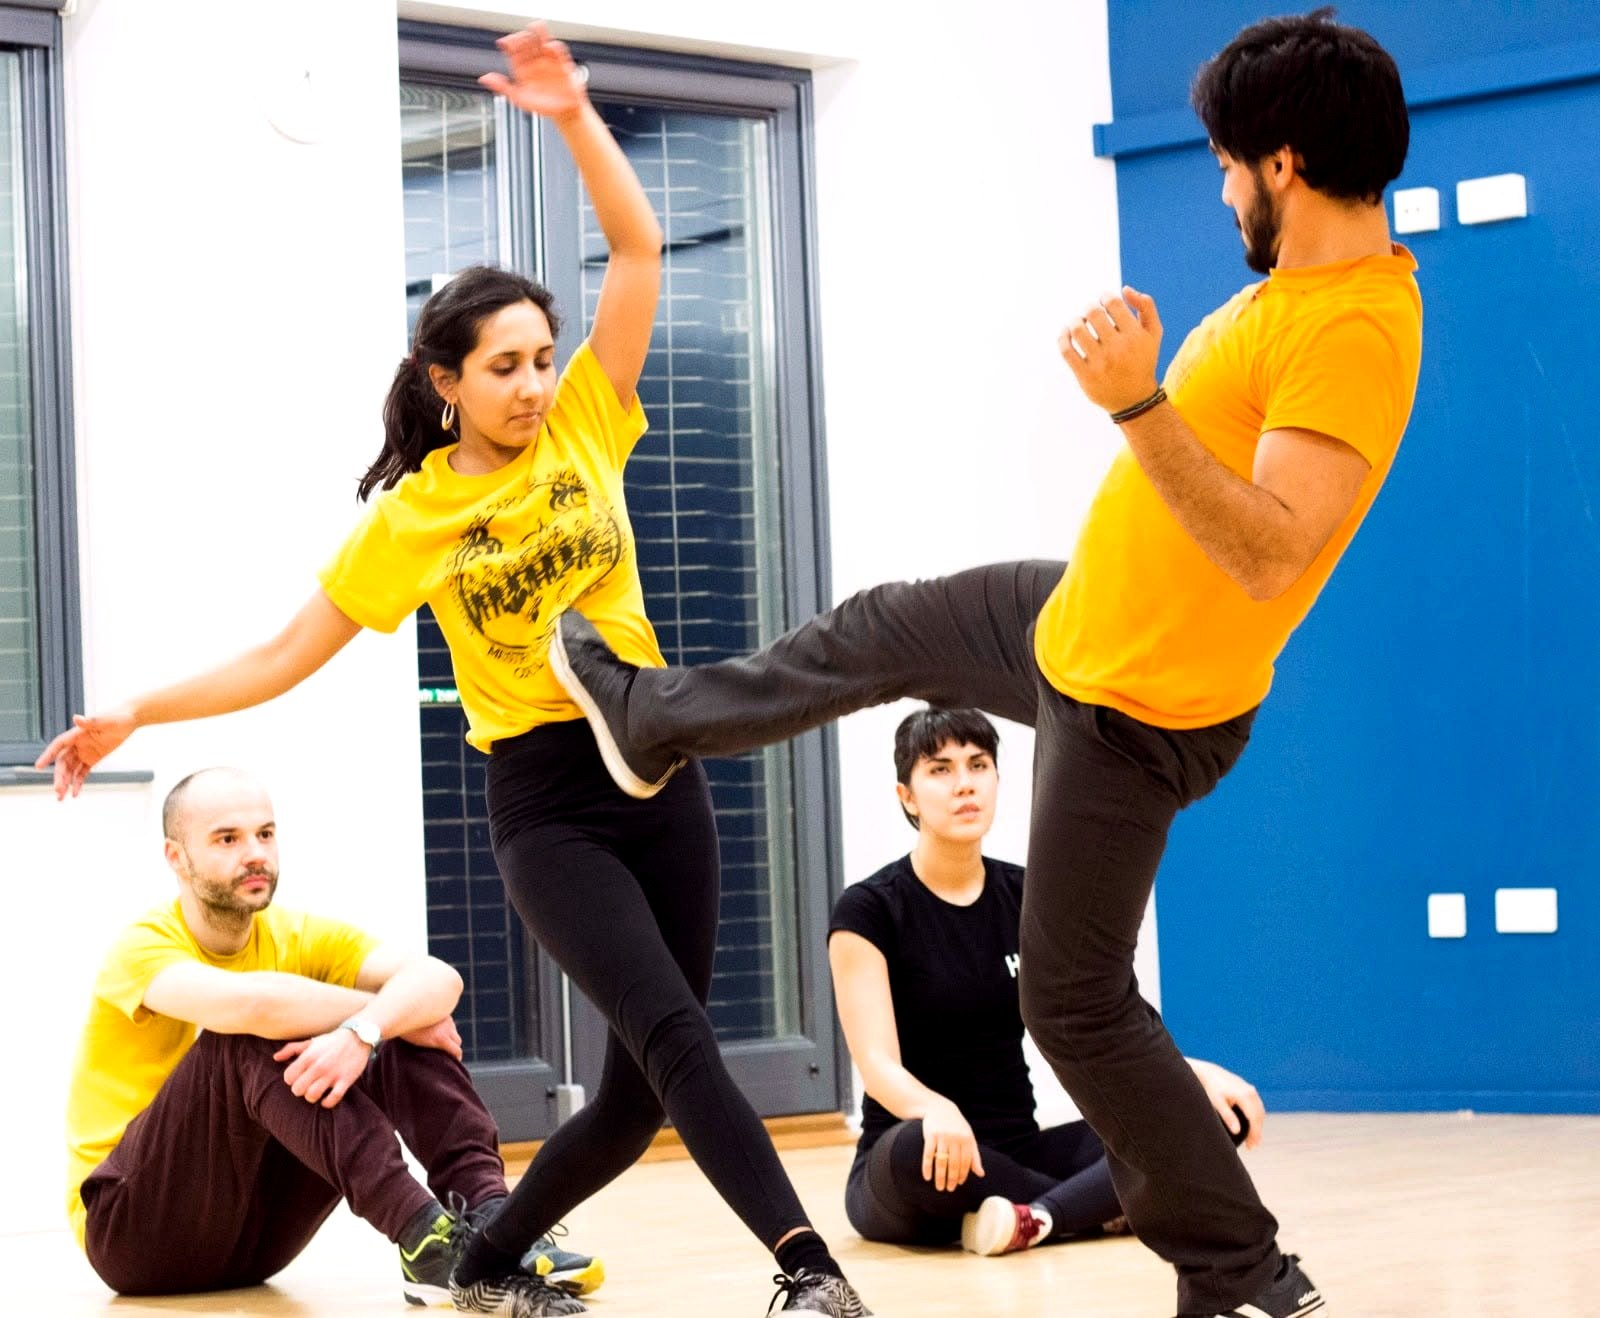
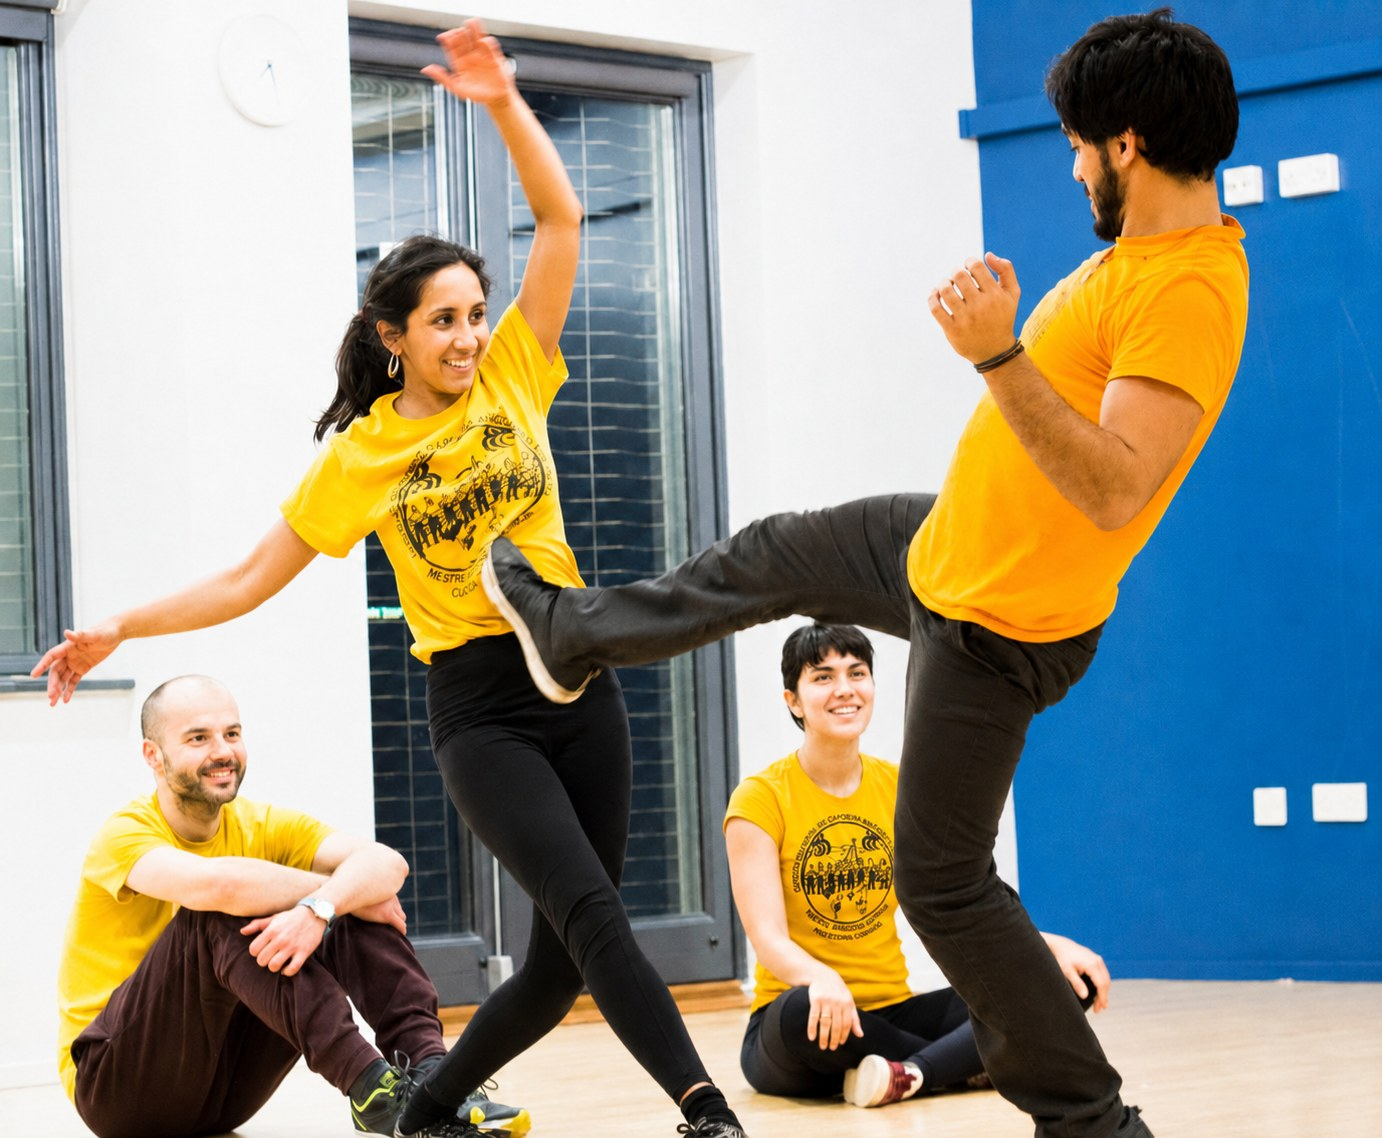
Polish hero gallery and contact flow

diff --git a/index.html b/index.html
@@ -41,14 +41,16 @@
             Oxford Capoeira Society welcomes adults and children, from complete
             beginners to experienced students.
           </p>
-          <ul class="hero-highlights" aria-label="Class highlights">
-            <li>First class friendly</li>
-            <li>No experience needed</li>
-            <li>Movement, music, and community</li>
-          </ul>
-          <div class="hero-actions" aria-label="Main actions">
-            <a class="button" href="#classes">View class times</a>
-            <a class="button button-secondary" href="#contact">Contact us now</a>
+          <div class="hero-tail">
+            <ul class="hero-highlights" aria-label="Class highlights">
+              <li>First class friendly</li>
+              <li>No experience needed</li>
+              <li>Movement, music, and community</li>
+            </ul>
+            <div class="hero-actions" aria-label="Main actions">
+              <a class="button" href="#classes">View class times</a>
+              <a class="button button-secondary" href="#contact">Contact us now</a>
+            </div>
           </div>
         </div>
         <figure class="hero-photo">
@@ -410,7 +412,7 @@
               >
               <figcaption>Movement practice</figcaption>
             </figure>
-            <figure class="gallery-photo">
+            <figure class="gallery-photo gallery-photo-large">
               <img
                 src="images/color-graded/photo-31.jpg"
                 alt="Outdoor roda with berimbaus and students playing in Oxford"
@@ -458,6 +460,20 @@
                 alt="Oxford Capoeira Society group photo after a workshop"
               >
               <figcaption>Community</figcaption>
+            </figure>
+            <figure class="gallery-photo">
+              <img
+                src="images/color-graded/photo-28.jpg"
+                alt="Capoeira Angola roda with live music and movement"
+              >
+              <figcaption>Workshop roda</figcaption>
+            </figure>
+            <figure class="gallery-photo">
+              <img
+                src="images/color-graded/photo-29.jpg"
+                alt="Capoeira Angola musicians with berimbaus and percussion"
+              >
+              <figcaption>Berimbau music</figcaption>
             </figure>
           </div>
         </div>
@@ -523,27 +539,42 @@
               regular class as a beginner.
             </p>
             <p>
-              Use whichever option is easiest for you:
+              For the quickest reply, send a WhatsApp message with the class
+              you would like to try and whether you are coming as an adult,
+              parent, or school contact.
             </p>
-            <div class="contact-options" aria-label="Contact options">
-              <a
-                class="contact-option"
-                href="https://www.instagram.com/oxfordcapoeirasociety/"
-                target="_blank"
-                rel="noopener noreferrer"
-              >
-                <span>Instagram</span>
-                <strong>@oxfordcapoeirasociety</strong>
-              </a>
-              <a class="contact-option" href="mailto:oxcapoeirasoc@gmail.com">
-                <span>Email</span>
-                <strong>oxcapoeirasoc@gmail.com</strong>
-              </a>
-              <a class="contact-option" href="tel:07411776771">
-                <span>WhatsApp or text</span>
-                <strong>Professor Lobinho</strong>
-              </a>
-            </div>
+            <ul class="contact-prompts" aria-label="Helpful contact details">
+              <li>Tell us which class you want to attend.</li>
+              <li>Ask any questions about level, clothing, or payment.</li>
+              <li>Bank transfer details can be shared after you get in touch.</li>
+            </ul>
+          </div>
+          <div class="contact-options" aria-label="Contact options">
+            <a
+              class="contact-option contact-option-primary"
+              href="https://wa.me/447411776771"
+              target="_blank"
+              rel="noopener noreferrer"
+            >
+              <span>WhatsApp or text</span>
+              <strong>Message Professor Lobinho</strong>
+              <small>Best for arranging your first class.</small>
+            </a>
+            <a
+              class="contact-option"
+              href="https://www.instagram.com/oxfordcapoeirasociety/"
+              target="_blank"
+              rel="noopener noreferrer"
+            >
+              <span>Instagram</span>
+              <strong>@oxfordcapoeirasociety</strong>
+              <small>Follow class updates and community photos.</small>
+            </a>
+            <a class="contact-option" href="mailto:oxcapoeirasoc@gmail.com">
+              <span>Email</span>
+              <strong>oxcapoeirasoc@gmail.com</strong>
+              <small>Good for school workshops and longer questions.</small>
+            </a>
           </div>
         </div>
       </section>

diff --git a/styles.css b/styles.css
@@ -102,6 +102,10 @@ a {
   min-width: 0;
 }
 
+.hero-tail {
+  min-width: 0;
+}
+
 .welcome-badge {
   display: inline-flex;
   align-items: center;
@@ -248,7 +252,7 @@ h3 {
 
 .hero-photo img {
   width: 100%;
-  aspect-ratio: 4 / 5;
+  aspect-ratio: 1 / 1;
   object-fit: cover;
   object-position: center;
 }
@@ -665,6 +669,7 @@ h3 {
 
 .gallery-grid {
   display: grid;
+  grid-auto-flow: dense;
   grid-template-columns: repeat(4, minmax(0, 1fr));
   gap: 1px;
   overflow: hidden;
@@ -723,23 +728,26 @@ h3 {
 
 .contact-options {
   display: grid;
-  grid-template-columns: repeat(3, minmax(0, 1fr));
-  gap: 1px;
-  overflow: hidden;
-  margin-top: 1.25rem;
-  background: #c9ddd6;
-  border: 1px solid #c9ddd6;
-  border-radius: 8px;
+  grid-template-columns: 1fr;
+  gap: 0.75rem;
+  margin-top: 0;
 }
 
 .contact-option {
   display: grid;
-  gap: 0.3rem;
+  align-content: start;
+  gap: 0.4rem;
   min-height: 7rem;
   padding: 1.1rem;
   background: var(--surface);
   color: var(--ink);
+  border: 1px solid #c9ddd6;
+  border-radius: 8px;
   text-decoration: none;
+  transition:
+    background 160ms ease,
+    border-color 160ms ease,
+    transform 160ms ease;
 }
 
 .contact-option span {
@@ -755,9 +763,60 @@ h3 {
   overflow-wrap: anywhere;
 }
 
+.contact-option small {
+  color: var(--muted);
+  font-size: 0.9rem;
+  line-height: 1.45;
+}
+
+.contact-option-primary {
+  background: var(--green);
+  border-color: var(--green);
+  color: #ffffff;
+  box-shadow: var(--soft-shadow);
+}
+
+.contact-option-primary span,
+.contact-option-primary strong,
+.contact-option-primary small {
+  color: #ffffff;
+}
+
 .contact-option:hover,
 .contact-option:focus-visible {
   background: #edf5f2;
+  border-color: var(--green);
+  transform: translateY(-2px);
+}
+
+.contact-option-primary:hover,
+.contact-option-primary:focus-visible {
+  background: #0d5945;
+}
+
+.contact-prompts {
+  display: grid;
+  gap: 0.55rem;
+  margin: 1.2rem 0 0;
+  padding: 0;
+  color: var(--muted);
+  list-style: none;
+}
+
+.contact-prompts li {
+  position: relative;
+  padding-left: 1.4rem;
+}
+
+.contact-prompts li::before {
+  position: absolute;
+  top: 0.65em;
+  left: 0;
+  width: 0.45rem;
+  height: 0.45rem;
+  background: var(--gold);
+  border-radius: 50%;
+  content: "";
 }
 
 .site-footer {
@@ -780,6 +839,31 @@ h3 {
   .hero {
     grid-template-columns: 1fr;
     min-height: auto;
+  }
+
+  .hero-copy {
+    display: contents;
+  }
+
+  .hero-copy .welcome-badge {
+    justify-self: start;
+    order: 1;
+  }
+
+  .hero-copy h1 {
+    order: 2;
+  }
+
+  .hero-copy > p {
+    order: 3;
+  }
+
+  .hero-photo {
+    order: 4;
+  }
+
+  .hero-tail {
+    order: 5;
   }
 
   .hero-mark {
@@ -838,11 +922,34 @@ h3 {
   }
 
   .hero {
-    padding-top: 2rem;
+    gap: 1rem;
+    padding-top: 1.5rem;
   }
 
-  .hero-copy p:not(.eyebrow) {
+  .hero-copy p:not(.eyebrow, .welcome-badge) {
     max-width: 32ch;
+    font-size: 1rem;
+  }
+
+  .welcome-badge {
+    min-height: 2rem;
+    margin-bottom: 0.75rem;
+    padding: 0.35rem 0.65rem;
+  }
+
+  .hero-highlights {
+    gap: 0.45rem;
+    margin-top: 1rem;
+  }
+
+  .hero-highlights li {
+    min-height: 2.1rem;
+    padding: 0.35rem 0.6rem;
+    font-size: 0.85rem;
+  }
+
+  .hero-photo img {
+    aspect-ratio: 4 / 3;
   }
 
   html {
@@ -850,7 +957,8 @@ h3 {
   }
 
   h1 {
-    font-size: clamp(2.5rem, 14vw, 3.6rem);
+    margin-bottom: 1rem;
+    font-size: clamp(2.2rem, 11vw, 3rem);
   }
 
   .details-grid article {
